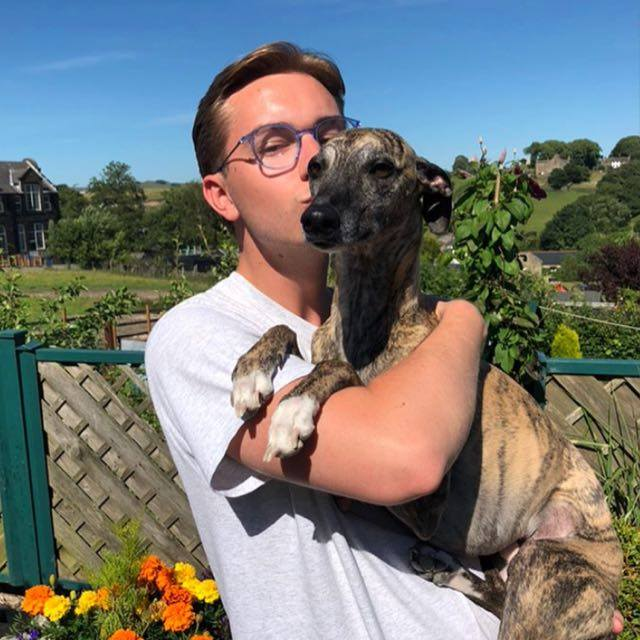
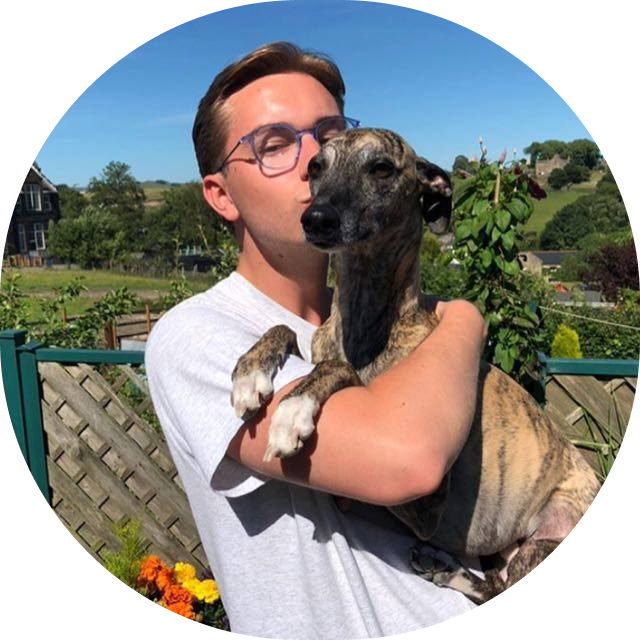
.

diff --git a/components/About.js b/components/About.js
@@ -5,9 +5,9 @@ import Skills from "./Skills";
 
 function About() {
 	return (
-		<div className="min-h-screen grid grid-cols-2 mt-12 gap-4">
-			<h2 className="col-span-2 place-self-center">About</h2>
-			<div className="col-span-2 sm:col-span-1 flex flex-col items-center sm:items-start text-center sm:text-left">
+		<div className="min-h-screen grid grid-cols-10 mt-12 gap-4 space-y-4 mx-14 sm:mx-20 md:mx-22 lg:mx-24 xl:mx-28">
+			<h2 className="col-span-10 place-self-center">ABOUT</h2>
+			<div className="col-span-10 sm:col-span-6 flex flex-col justify-center items-center mx-auto gap-1 md-gap:2 lg:gap-3 xl:gap-4 sm:items-start text-center sm:text-left max-w-[440px] sm:max-w-none">
 				<p className="">
 					Hi, my name is Jack Edmondson, I'm a front-end developer based in
 					London.
@@ -18,7 +18,7 @@ function About() {
 					deep dived into the world of front-end development and discovered a
 					new passion that I am now fully immersed in.
 				</p>
-				<p className="pb-4">
+				<p className="pb-1 md-pb:2 lg:pb-3 xl:pb-4">
 					In my spare time you can find me watching Burnley FC, albeit often
 					from afar, or if they're not playing, walking around taking pictures
 					on my 35mm camera.
@@ -26,17 +26,17 @@ function About() {
 				<Button value="CV" border />
 			</div>
 
-			<div className="grid col-span-2 sm:col-span-1 place-self-center w-5/6 h-full">
+			<div className="grid col-span-10 sm:col-span-4 place-self-center sm:place-self-end w-5/6 h-full">
 				<Image
-					src="/../public/self.jpg"
+					src="/../public/self.png"
 					width="100%"
 					height="100%"
 					objectFit="contain"
 					layout="responsive"
 				/>
 			</div>
-			<h2 className="col-span-2 place-self-center">Skills</h2>
-			<div className=" flex col-span-2 justify-center gap-2 sm:gap-4 flex-wrap">
+			<h2 className="col-span-10 place-self-center">SKILLS</h2>
+			<div className=" flex col-span-10 justify-center gap-2 sm:gap-4 flex-wrap">
 				<Skills name="" value="HTML" />
 				<Skills name="" value="CSS" />
 				<Skills name="" value="JS" />

diff --git a/components/Work/portfolioData.js b/components/Work/portfolioData.js
@@ -1,4 +1,5 @@
 export const portfolioData = [
+	// ADD IN USER LOGIN FOR RECRUITERS
 	{
 		id: 1,
 		title: "Expenses Tracker",
@@ -40,7 +41,7 @@ export const portfolioData = [
 		],
 
 		darkMode: "",
-		href: "",
+		href: "https://je-tenzies.netlify.app/",
 	},
 	{
 		id: 4,
@@ -53,7 +54,7 @@ export const portfolioData = [
 			"/expenses-tracker-3.png",
 			"/expenses-tracker-4.png",
 		],
-		href: "",
+		href: "https://je-meme-generator.netlify.app/",
 	},
 	{
 		id: 5,

diff --git a/components/Work/ProjectCard.js b/components/Work/ProjectCard.js
@@ -78,7 +78,7 @@ function ProjectCard(props) {
 				) : null}
 			</div>
 
-			<div className="flex justify-center">
+			<div className="flex justify-center items-center">
 				<Button
 					onClickFunction={goForwardWeb}
 					icon={chevronLeft}

diff --git a/Context/ModalContext.js b/Context/ModalContext.js
@@ -20,7 +20,7 @@ export default function ModalProvider({ children }) {
 
 	useEffect(() => {
 		setPortfolioDataArray(portfolioData);
-	}, [portfolioDataArray]);
+	}, []);
 
 	function setWorkDisplayed(event) {
 		event.preventDefault();
